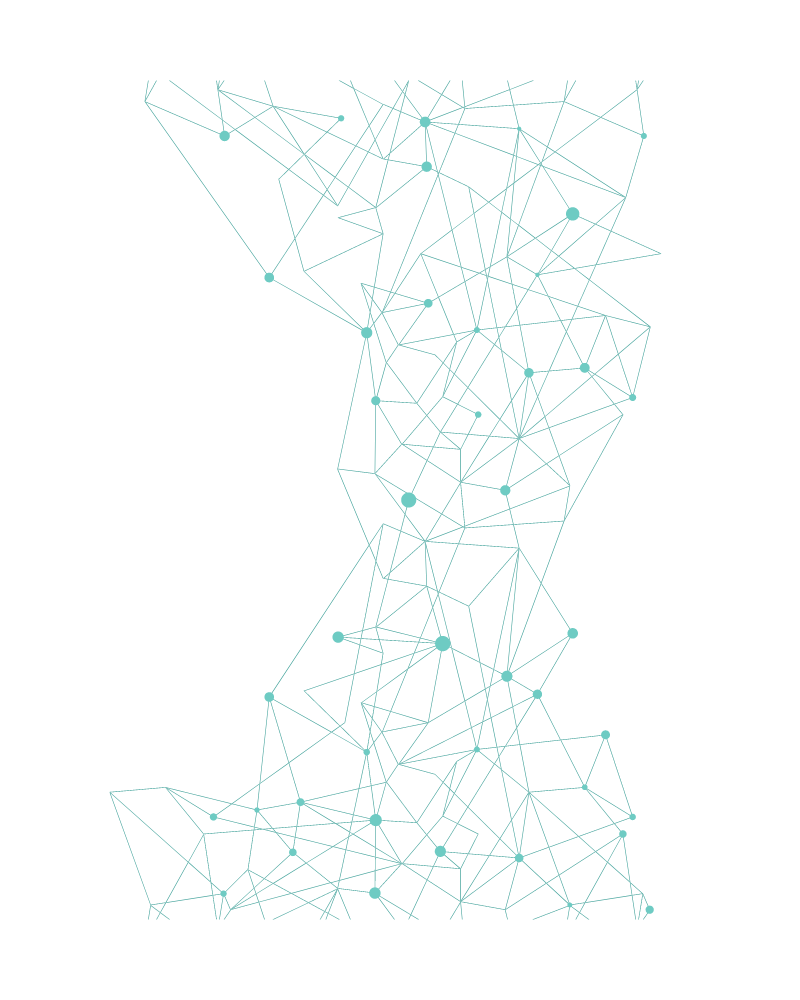
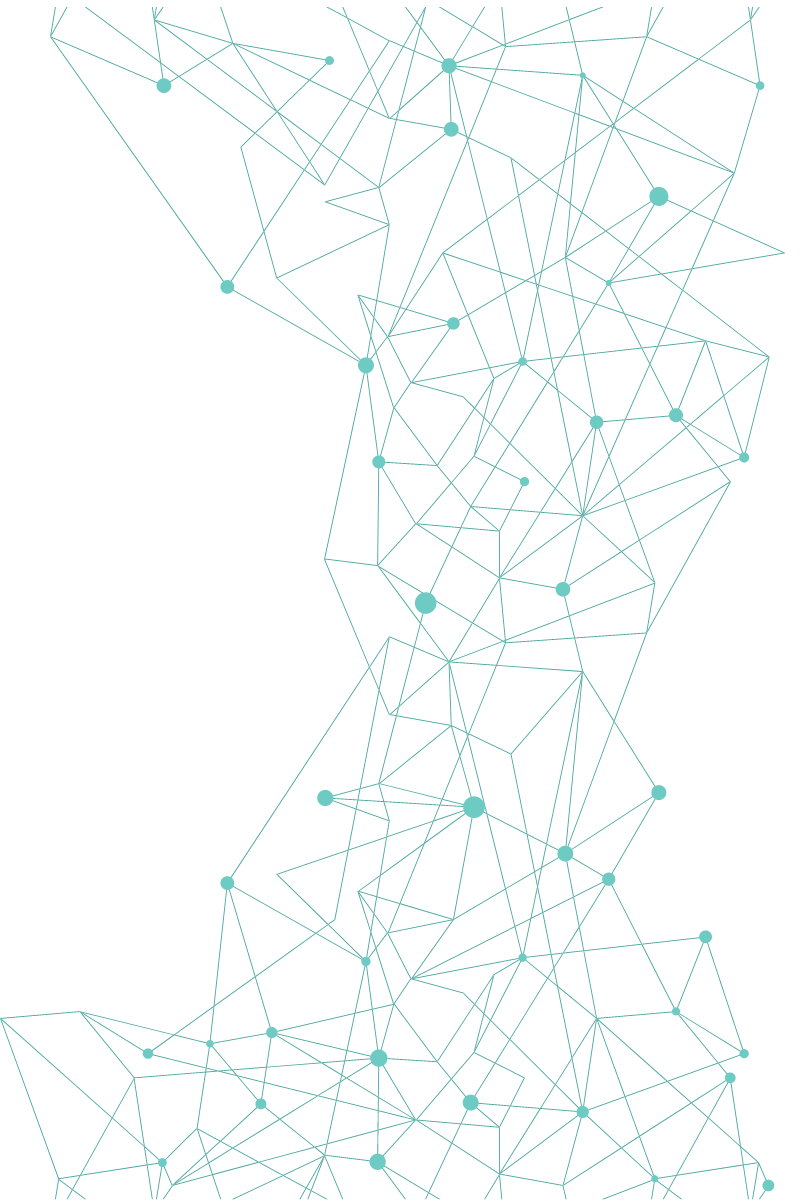
finished home section

diff --git a/index.html b/index.html
@@ -72,7 +72,11 @@
               <a href="#contact" class="btn hire-me">Learn More</a>
             </div>
             <div class="home-image-column">
-              <img class="column-image" src="img/new-bg.png" alt="" />
+              <img
+                class="column-image home-image"
+                src="img/new-bg.png"
+                alt=""
+              />
             </div>
           </div>
         </section>

diff --git a/CSS/style.css b/CSS/style.css
@@ -333,11 +333,16 @@ h2.primary-heading {
 .home-container {
     display: flex;
     box-sizing: border-box;
-    padding: 2rem 0rem;
+}
+.home-image {
+    margin-top: -1rem;
+    margin-left: 5rem;
+    height: 100vh !important;
 }
 .home-text-column {
     width: 40%;
-    padding: 1rem;
+    margin-top: 3rem;
+    padding: 3rem;
 }
 .home-image-column {
     width: 60%;
